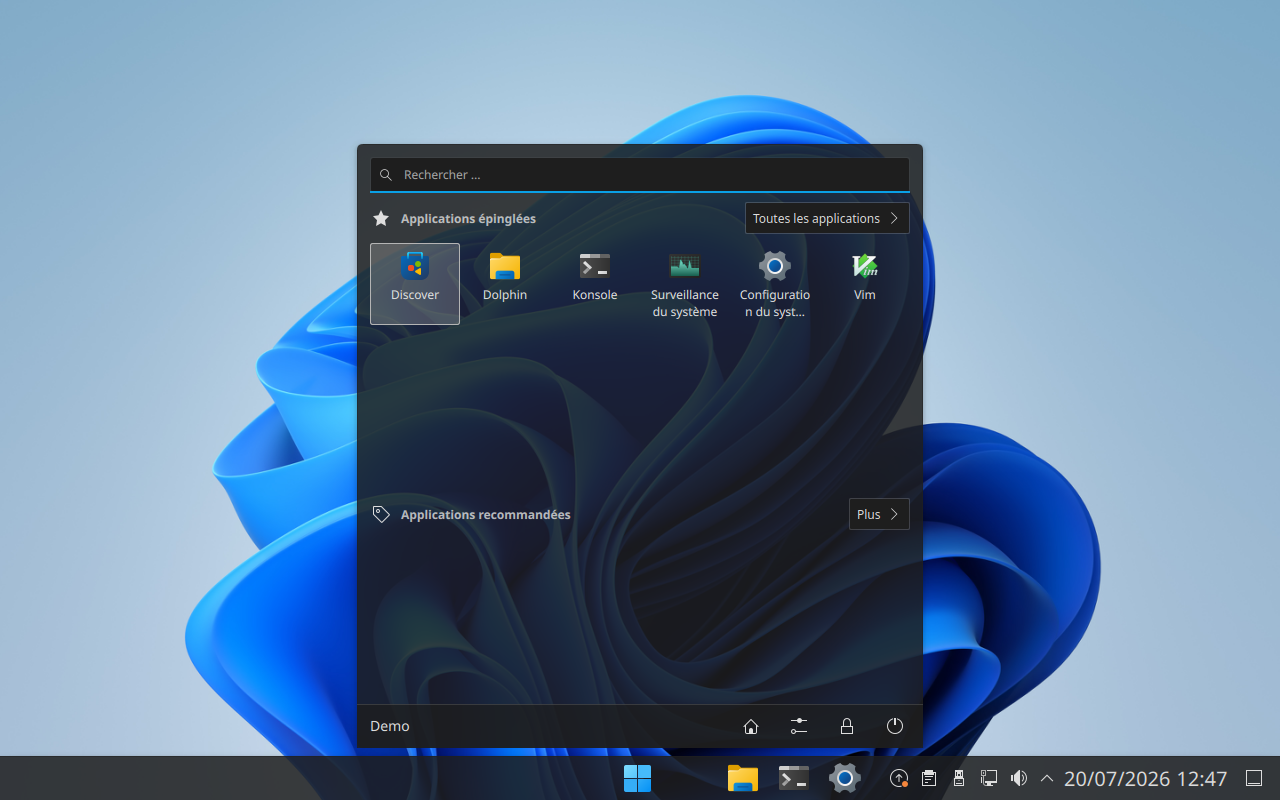
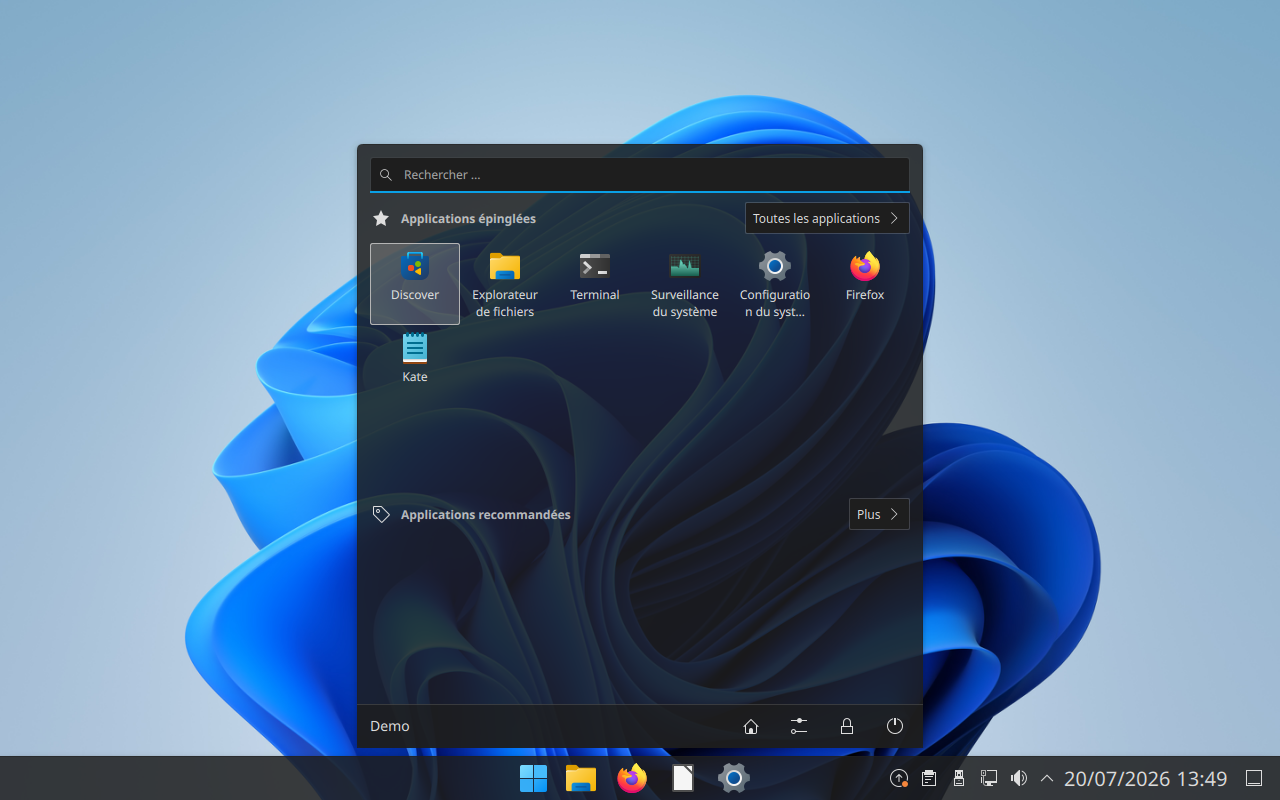
docs: captures a jour (barre sans terminal, menu avec noms francais)

diff --git a/README.fr.md b/README.fr.md
@@ -26,7 +26,7 @@ Le menu Démarrer, avec recherche et applications épinglées :
 L'édition Familiale transforme Plasma en quasi-Windows 11 (recette validée sur Ubuntu 24.04) :
 - thème global **Win11OS** + icônes **Win11** (yeyushengfan258) + fond d'écran Bloom
 - **menu Démarrer Windows 11** (plasmoïde OnzeMenu : recherche, applications épinglées/recommandées)
-- **barre des tâches centrée** avec applications épinglées (explorateur, Firefox, LibreOffice, terminal, paramètres)
+- **barre des tâches centrée** avec applications épinglées (explorateur, Firefox, LibreOffice, paramètres)
 - décorations de fenêtres Win11, **double-clic pour ouvrir**, écrans de connexion et de verrouillage thémés
 - **bureautique incluse** : LibreOffice (fr), Okular (PDF), Gwenview (images), Ark (archives), Kate, calculatrice
 - **mises à jour automatiques** : Discover (notifications façon Windows Update) + correctifs de sécurité sans intervention

diff --git a/README.md b/README.md
@@ -26,7 +26,7 @@ The Start menu, with search and pinned apps:
 The Family Edition turns Plasma into a near-Windows 11 (recipe validated on Ubuntu 24.04):
 - **Win11OS** global theme + **Win11** icons (yeyushengfan258) + Bloom wallpaper
 - **Windows 11 Start menu** (OnzeMenu plasmoid: search, pinned/recommended apps)
-- **centered taskbar** with pinned apps (file manager, Firefox, LibreOffice, terminal, settings)
+- **centered taskbar** with pinned apps (file manager, Firefox, LibreOffice, settings)
 - Win11 window decorations, **double-click to open**, themed login and lock screens
 - **office essentials included**: LibreOffice, Okular (PDF), Gwenview (photos), Ark (archives), Kate, calculator
 - **automatic updates**: Discover (tray notifications, Windows Update-style) + unattended security upgrades